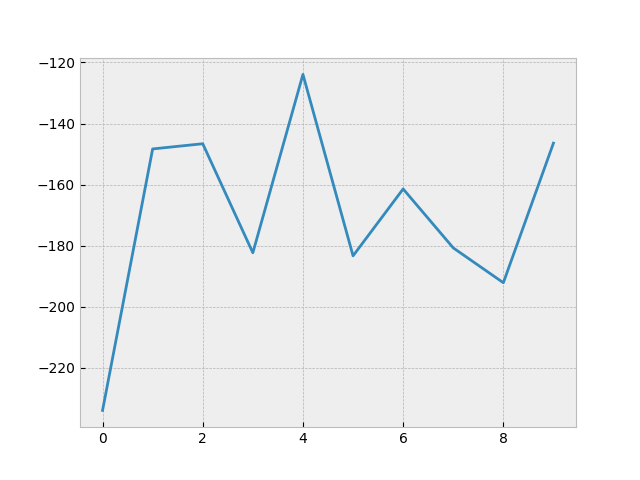
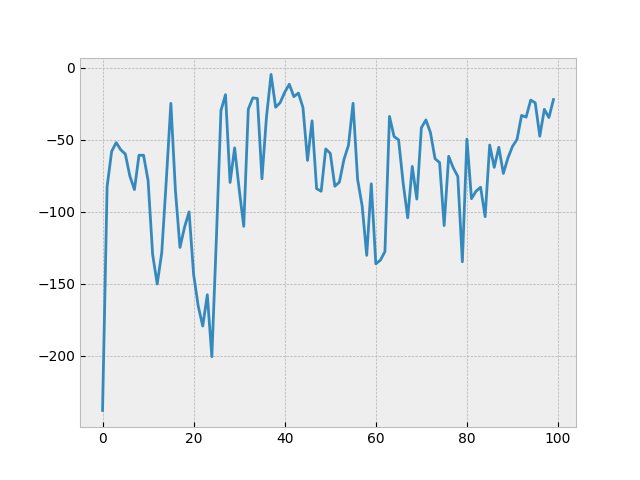
Finished Neural Net

diff --git a/tic_tac_toe/neural_nets.py b/tic_tac_toe/neural_nets.py
@@ -20,6 +20,145 @@ class Node ():
         self.value = lambda weights, xs : xs[self.id-1]
 
 class NeuralNet (): 
+    def __init__(self, node_layers, act_funct) :
+        self.nodes = {}
+        self.create_nodes(node_layers, act_funct)
+        self.weights = None
+
+    def calc_score(self, weights) :
+        self.weights = weights
+        game = TicTacToe(self)
+        score = 0
+        for _ in range(32) :
+            game.run_game()
+            if game.winner == 1 :
+                score += 1
+            if game.winner == 2 :
+                score -= 10
+        return score
+    
+    def choose_move(self, board, possible_moves) :
+        v_board = self.vector_board(board)
+        layer = self.nodes[len(self.nodes)-1]
+        move_val = [layer[space].output(self.weights, v_board) if space in possible_moves else -100 for space in range(9)]
+        return move_val.index(max(move_val))
+
+    def vector_board(self, board) :
+        v_board = []
+        for space in board :
+            if space == '1' :
+                v_board.append(1)
+            elif space == '2' :
+                v_board.append(-1)
+            else :
+                v_board.append(0)
+        return v_board
+
+    #Node/Weight Generation
+
+    def create_nodes(self, node_layers, act_funct) :
+        layers = self.create_layers(node_layers)
+        id = 0
+        for layer in range(len(layers)) :
+            self.nodes[layer] = []
+            for node in layers[layer] :
+                id += 1
+                new_node = Node(id, act_funct)
+                if node == 'bias' : 
+                    new_node.spec = 'bias'
+                    new_node.value = lambda weights, xs : 1
+                    self.nodes[layer].append(new_node)
+                    continue
+                if layer == 0 :
+                    new_node.input()
+                    self.nodes[layer].append(new_node)
+                    continue
+
+                new_node.parents = self.make_node_specifics(layer)
+                self.nodes[layer].append(new_node)
+                
+    def make_node_specifics(self, layer) :
+        from_node = []
+        for prev_node_order in range(len(self.nodes[layer-1])) :
+            prev_node = self.nodes[layer-1][prev_node_order]
+            from_node.append(prev_node)
+        return from_node
+    
+    def create_layers(self, node_layers) :
+        net_set = []
+        for layer_num in range(len(node_layers)) :
+            if layer_num != 0 :
+                net_set[layer_num - 1].append('bias')
+            net_set.append([node for node in range(node_layers[layer_num])])
+        return net_set
+
+    def make_weights(self, hidden) :
+        weights = {}
+        hidden_range = list(range(20, 10+hidden, -1))
+        for layer in range(len(self.nodes)-1) :
+            for node_from in self.nodes[layer] :
+                overide = False
+                if node_from.id in hidden_range :
+                    overide = True
+                for node_to in self.nodes[layer+1] :
+                    if node_to.spec == 'bias' :
+                        continue
+                    weights[(node_from.id, node_to.id)] = uniform(-0.5, 0.5)
+                    if overide or node_to.id in hidden_range :
+                        weights[(node_from.id, node_to.id)] = 0
+        return weights
+
+class NeuralNetField (): 
+    def __init__(self, layers, act_funct) :
+        self.net = NeuralNet(layers, act_funct)
+        self.curr_gen = []
+
+    def reproduce(self, parent, amount=1) :
+        child = {'weights': {}, 'hidden': parent['hidden']}
+
+        pm = choice([-1,0,1])
+        if pm + child['hidden'] <= 10 and pm + child['hidden'] >= 1 :
+            child['hidden'] += pm
+            
+        non_included = list(range(20, 10+child['hidden'], -1))
+        for (connect, weight) in parent['weights'].items() :
+            if connect[0] in non_included or connect[1] in non_included :
+                child['weights'][connect] = 0
+            else :
+                child['weights'][connect] = weight + normal(0,0.05)
+                
+        return child
+
+    def evolve(self, gens) :
+        generations = {}
+        for gen in range(gens) :
+            if gen % 5 == 0 :
+                print('Gen:', gen)
+            gen_scores = [self.net.calc_score(inst['weights']) for inst in self.curr_gen]
+            gen_max = max(gen_scores)
+            generations[gen] = sum(gen_scores)/len(gen_scores)
+
+            cont_pop = [self.curr_gen[index] for index in range(len(self.curr_gen)) if gen_scores[index] == gen_max]
+            new_pop = []
+            print('moving on:', len(cont_pop))
+            id = 0
+            while len(new_pop + cont_pop) < len(self.curr_gen) :
+                parent = cont_pop[id]
+                new_pop.append(self.reproduce(parent))
+                id = (id + 1) % len(cont_pop)
+            self.curr_gen = cont_pop + new_pop
+            
+        return generations
+
+    def create_gen(self, amount) :
+        for _ in range(amount) :
+            hidden = randint(1, 11)
+            net = {'weights': self.net.make_weights(hidden), 'hidden': hidden}
+            self.curr_gen.append(net)
+
+'''
+~1 second each gen
+class NeuralNet (): 
     def __init__(self, nodes, weights, non_hidden = 1, premade = False) :
         self.nodes = nodes
         self.hidden = non_hidden
@@ -183,31 +322,22 @@ class NeuralNetField ():
 class TicTacToe:
     def __init__(self, nn):
         self.players = [nn, Enmy()]
-        self.board = '000000000'
-        self.round = 1
-        self.winner = None
     
     def get_possible_moves(self) :
-        possible_moves = [index for index in range(len(self.board)) if self.board[index]=='0']
-        if possible_moves == [] :
-            possible_moves.append([])
+        possible_moves = [index for index in range(9) if self.board[index]=='0']
         return possible_moves
 
-    def complete_round(self) :
-        for plr_id in range(2) :
+    def run_game(self) :
+        self.board = '000000000'
+        self.winner = None
+        plr_id = 0
+        while self.winner == None :
             plr = self.players[plr_id]
             choices = self.get_possible_moves()
-            if choices != [] :
-                player_move = plr.choose_move(self.board, choices)
-                self.update_board(plr_id+1, player_move)
-            if self.check_for_winner() != None:
-                self.winner = self.check_for_winner()
-                break
-        self.round += 1
-
-    def run_to_completion(self) :
-        while self.winner == None :
-            self.complete_round()
+            player_move = plr.choose_move(self.board, choices)
+            self.update_board(plr_id+1, player_move)
+            self.winner = self.check_for_winner()
+            plr_id = (plr_id + 1) % 2
 
     def check_for_winner(self) :
         thing = [self.board[index: index+3] for index in range(0,9,3)] #row
@@ -221,13 +351,9 @@ class TicTacToe:
             return 'Tie'
     
     def update_board(self, plr_num, choice) : 
-        #print(choice)
         self.board = self.board[:choice] + str(plr_num) + self.board[choice+1:]
 
 class Enmy :
-    def __init__(self) :
-        self.id = 2
-
     def choose_move(self, board, possible_moves) :
         if randint(0, 10) == 0 :
             return choice(possible_moves)
@@ -246,10 +372,10 @@ class Enmy :
             stuff = thing[id]
             if stuff.count('2') == 2 and stuff.count('0') == 1 :
                 return thing_m[id][stuff.index('0')]
+
             if stuff.count('1') == 2 and stuff.count('0') == 1 :
-                #print(stuff, stuff.index('0'))
-                #print(thing_m[id])
                 negative.append(thing_m[id][stuff.index('0')])
+
             elif stuff.count('1') == 1 and stuff.count('0') == 2 :
                 neutral.extend([index for index in range(3) if stuff[index] == '0'])
         

diff --git a/tic_tac_toe/test_nets.py b/tic_tac_toe/test_nets.py
@@ -1,5 +1,6 @@
 from neural_nets import *
 import math
+import time
 '''
 board = '000000000'
 
@@ -22,13 +23,19 @@ data = 0
 weights = 9
 
 nnf = NeuralNetField(node_layers, lambda x: 1 / (1 + math.e ** (-x)))
-'''
-nnf.create_gen(10)
-nn = nnf.curr_gen[0]
+#'''
+t_1 = time.time()
+nnf.create_gen(50)
+t_2 = time.time()
+print('Creation:', t_2 - t_1)
 
 #for (connection, weight) in nn.weights.items() :
 #    print(connection, weight)
-gen_scores = nnf.evolve(10)
+amt = 100
+t_1 = time.time()
+gen_scores = nnf.evolve(amt)
+t_2 = time.time()
+print('Evolution:', (t_2-t_1)/amt)
 
 import matplotlib.pyplot as plt
 plt.style.use('bmh')
